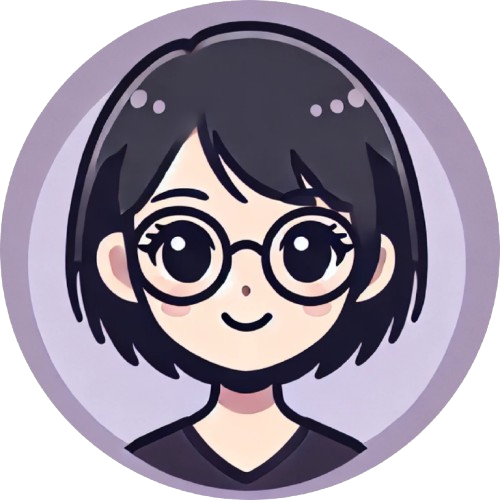
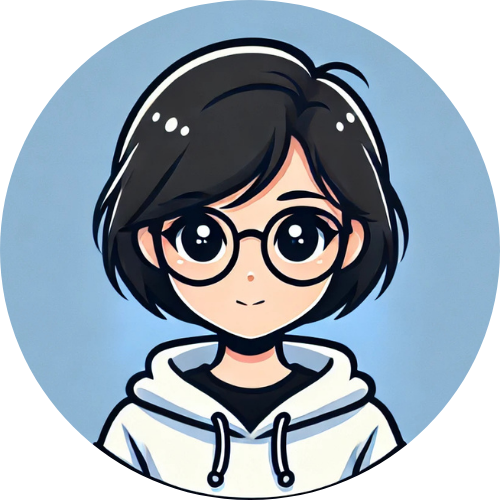
change color

diff --git a/src/style.css b/src/style.css
@@ -1,17 +1,17 @@
 html {
   --section-background-color: linear-gradient(
     to bottom left,
-    rgba(17, 16, 16, 0.582),
-    rgba(12, 8, 24, 0.904)
+    rgba(21, 27, 75, 0.678),
+    rgba(13, 22, 70, 0.863)
   );
 
   --image-gradient: linear-gradient(
     to bottom left,
-    rgba(17, 16, 16, 0.678),
-    rgba(12, 10, 22, 0.863)
+    rgba(15, 20, 56, 0.678),
+    rgba(11, 17, 53, 0.863)
   );
 
-  --imp-text-color: #c770f0;
+  --imp-text-color: #6aa9fc;
 }
 
 .purple {
@@ -32,7 +32,7 @@ button:focus {
   width: 100%;
   height: 100%;
   z-index: 999999;
-  background-color: #0c0513;
+  background-color: #151f53;
   background-image: url(./Assets/pre.svg);
   background-repeat: no-repeat;
   background-position: center;
@@ -57,18 +57,18 @@ button:focus {
 
 /* Track */
 ::-webkit-scrollbar-track {
-  background: #2d1950;
+  background: #0e1d63;
 }
 
 /* Handle */
 ::-webkit-scrollbar-thumb {
-  background: rgba(178, 121, 216, 0.959);
+  background: rgba(51, 110, 197, 0.959);
   border-radius: 12px;
 }
 
 /* Handle on hover */
 ::-webkit-scrollbar-thumb:hover {
-  background: rgba(222, 130, 235, 0.911);
+  background: rgba(130, 163, 235, 0.911);
   border-radius: 12px;
 }
 
@@ -76,9 +76,9 @@ button:focus {
 /* Navbar Section  */
 /* --------- */
 .sticky {
-  background-color: #1b1a2ea9 !important;
+  background-color: #1a212ea9 !important;
   transition: all 0.3s ease-out 0s !important;
-  box-shadow: 0px 10px 10px 0px rgba(9, 5, 29, 0.171) !important;
+  box-shadow: 0px 10px 10px 0px rgba(5, 11, 29, 0.171) !important;
   backdrop-filter: blur(15px) !important;
 }
 
@@ -97,7 +97,7 @@ button:focus {
 
 .navbar-toggler span {
   display: block !important;
-  background-color: #be50f4 !important;
+  background-color: #2e56db !important;
   height: 4px !important;
   width: 27px !important;
   margin-top: 5px !important;
@@ -144,7 +144,7 @@ button:focus {
   .navbar {
     padding: 1rem 2rem !important;
     font-size: 1.4rem !important;
-    background-color: #181a27 !important;
+    background-color: #181e27 !important;
   }
   .navbar-nav .nav-item a::after {
     display: none !important;
@@ -194,7 +194,7 @@ button:focus {
   height: 5px;
   width: 0;
   border-radius: 16px;
-  background: #c95bf5;
+  background: #5b8cf5;
   bottom: 1px;
   left: 0;
   z-index: -1;
@@ -257,7 +257,7 @@ button:focus {
 .home-section {
   position: relative;
   z-index: -1;
-  background-image: var(--image-gradient), url(./Assets/home-bg.jpg);
+  background-image: var(--image-gradient), url(./Assets/home-bg.png);
   background-position: top center;
   background-repeat: no-repeat;
   padding-bottom: 30px !important;
@@ -281,17 +281,17 @@ button:focus {
 }
 
 .main-name {
-  color: #cd5ff8;
+  color: #65a7ff;
 }
 
 .Typewriter__wrapper {
   font-size: 2.2em !important;
-  color: #be6adf !important;
+  color: #68a3f3 !important;
   font-weight: 600 !important;
 }
 .Typewriter__cursor {
   font-size: 2.4em !important;
-  color: #b562d6 !important;
+  color: #68a3f3 !important;
 }
 
 @media (max-width: 767px) {
@@ -371,7 +371,7 @@ button:focus {
   width: 100%;
   height: 100%;
   border-radius: 50%;
-  background: #68187a;
+  background: #18227a;
   transition: 0.5s;
   transform: scale(0.9);
   z-index: -1;
@@ -379,13 +379,13 @@ button:focus {
 
 .home-social-icons:hover::before {
   transform: scale(1.1);
-  box-shadow: 0 0 15px #801f95;
+  box-shadow: 0 0 15px #3378d3;
 }
 
 .home-social-icons:hover {
-  color: #87209e;
-  box-shadow: 0 0 5px #87209e;
-  text-shadow: 0 0 2px #87209e;
+  color: #2d70c7;
+  box-shadow: 0 0 5px #2d70c7;
+  text-shadow: 0 0 2px #2d70c7;
 }
 
 .social-icons {
@@ -395,14 +395,14 @@ button:focus {
 }
 
 .icon-colour {
-  color: #700c86 !important;
+  color: #357ad5 !important;
 }
 
 /* --------- */
 /* Footer */
 /* --------- */
 .footer {
-  background-color: rgb(10, 4, 22);
+  background-color: rgb(2, 42, 94);
   bottom: 0 !important;
   padding-top: 10px !important;
   padding-bottom: 8px !important ;
@@ -439,7 +439,7 @@ button:focus {
 }
 
 .blockquote-footer {
-  color: #a588c0 !important;
+  color: #7ed8ff !important;
 }
 /* --------- */
 /* Projects */
@@ -460,7 +460,7 @@ button:focus {
 }
 
 .project-card-view {
-  box-shadow: 0 4px 5px 3px rgba(119, 53, 136, 0.459) !important;
+  box-shadow: 0 4px 5px 3px rgba(67, 115, 179, 0.459) !important;
   color: white !important;
   background-color: transparent !important;
   opacity: 0.9 !important;
@@ -470,7 +470,7 @@ button:focus {
 .project-card-view:hover {
   transform: scale(1.02) !important;
   overflow: hidden !important;
-  box-shadow: 0 4px 4px 5px rgba(129, 72, 144, 0.561) !important;
+  box-shadow: 0 4px 4px 5px rgba(98, 154, 238, 0.561) !important;
 }
 
 .blog-card {
@@ -483,7 +483,7 @@ button:focus {
 
 .blog-card-view {
   background-color: transparent !important;
-  box-shadow: 0 3px 3px 2px rgba(145, 77, 161, 0.459) !important;
+  box-shadow: 0 3px 3px 2px rgba(3, 37, 99, 0.459) !important;
   color: white !important;
   transition: all 0.5s ease 0s !important;
   height: 100% !important;
@@ -501,7 +501,7 @@ button:focus {
 .blog-card-view:hover {
   transform: scale(1.02) !important;
   overflow: hidden !important;
-  box-shadow: 0 3px 3px 5px rgba(155, 88, 173, 0.65) !important;
+  box-shadow: 0 3px 3px 5px rgba(6, 34, 77, 0.65) !important;
 }
 
 .card-img-top {
@@ -518,14 +518,14 @@ button:focus {
 
 .btn-primary {
   color: #fff !important;
-  background-color: #623686 !important;
-  border-color: #623686 !important;
+  background-color: #448bee !important;
+  border-color: #448bee!important;
 }
 
 .btn-primary:hover {
   color: #fff !important;
-  background-color: #6d20c5d7 !important;
-  border-color: #6d20c5d7 !important;
+  background-color: #1e9ad0  !important;
+  border-color: #1e9ad0  !important;
 }
 .btn:focus {
   outline: none !important;
@@ -555,12 +555,12 @@ button:focus {
   margin: 15px !important;
   padding: 10px !important;
   opacity: 0.93 !important;
-  border: 1.7px solid rgba(200, 137, 230, 0.637) !important;
+  border: 1.7px solid rgba(61, 156, 245, 0.637) !important;
   vertical-align: middle !important;
   text-align: center !important;
   border-radius: 5px !important;
   display: table !important;
-  box-shadow: 4px 5px 4px 3px rgba(89, 4, 168, 0.137) !important;
+  box-shadow: 4px 5px 4px 3px rgba(4, 89, 168, 0.137) !important;
   overflow: hidden !important;
   transition: all 0.4s ease 0s !important;
 }
@@ -574,7 +574,7 @@ button:focus {
 .tech-icons:hover {
   transform: scale(1.05) !important;
   overflow: hidden !important;
-  border: 2.2px solid rgba(197, 115, 230, 0.883) !important;
+  border: 2.2px solid rgba(76, 163, 235, 0.883) !important;
 }
 .tech-icon-images {
   padding: 20px !important;
@@ -601,7 +601,7 @@ button:focus {
 /* --------- */
 /* Resume */
 /* --------- */
-
+  
 .resume-section {
   position: relative !important;
   padding-top: 110px !important;
@@ -645,14 +645,14 @@ button:focus {
 .resume .resume-item {
   padding: 0 0 10px 25px;
   margin-top: -2px;
-  border-left: 2px solid #8a49a8;
+  border-left: 2px solid #6ca9fc;
   position: relative;
 }
 
 .resume .resume-item .resume-title {
   line-height: 18px;
   font-size: 0.9em;
-  background: #5234795d;
+  background: #426aa1;
   padding: 8px 15px;
   display: inline-block;
   font-weight: 600;
@@ -682,7 +682,7 @@ button:focus {
   left: -9px;
   top: 0;
   background: #fff;
-  border: 2px solid #8a49a8;
+  border: 2px solid #426aa1;
 }
 
 .like-item {
@@ -692,8 +692,8 @@ button:focus {
 }
 
 .like-btn {
-  background-color: #934cce5e !important;
-  border-color: #934cce5e !important;
+  background-color: #4a83d0 !important;
+  border-color: #4a83d0 !important;
   padding: 0.25rem 0.98rem !important;
   border-radius: 5px !important;
   line-height: 1.4 !important;
@@ -702,8 +702,8 @@ button:focus {
 
 .like-btn:hover {
   transform: translateY(-2px) !important;
-  background-color: #a24dd386 !important;
-  border-color: #a24dd386 !important;
+  background-color: #6ca9fc !important;
+  border-color: #6ca9fc !important;
 }
 
 .animate-like {
@@ -727,7 +727,7 @@ button:focus {
 
 .fork-btn-inner {
   line-height: 1.4em !important;
-  background-color: #934cce5e !important;
+  background-color: #4a83d0 !important;
   padding: 0.25rem 1.1rem !important;
   vertical-align: middle !important;
   text-align: center !important;
@@ -735,8 +735,8 @@ button:focus {
 
 .fork-btn-inner:hover {
   transform: translateY(-2px) !important;
-  background-color: #a24dd386 !important;
-  border-color: #a24dd386 !important;
+  background-color: #68a3f3 !important;
+  border-color: #68a3f3 !important;
 }
 .fork-btn-inner::after {
   display: none !important;

diff --git a/src/components/About/AboutCard.js b/src/components/About/AboutCard.js
@@ -26,9 +26,12 @@ function AboutCard() {
             <li className="about-activity">
               <ImPointRight /> Enjoying my favorite songs 
             </li>
+            <li className="about-activity">
+              <ImPointRight /> Doing some relaxing games
+            </li>
           </ul>
 
-          <p style={{ color: "rgb(155 126 172)" }}>
+          <p style={{ color: "rgb(111, 197, 247)" }}>
             "Experience is the name everyone gives to their mistakes"{" "}
           </p>
           <footer className="blockquote-footer">Oscar Wilde</footer>

diff --git a/src/index.css b/src/index.css
@@ -4,5 +4,5 @@ body {
   font-family: "Raleway", serif !important;
   -webkit-font-smoothing: antialiased;
   -moz-osx-font-smoothing: grayscale;
-  background-image: linear-gradient(to left, rgb(27 20 41), rgb(20 15 35));
+  background-image: linear-gradient(to left, rgb(20, 30, 58), rgb(19, 35, 82));
 }

diff --git a/src/components/Home/Home.js b/src/components/Home/Home.js
@@ -1,6 +1,6 @@
 import React from "react";
 import { Container, Row, Col } from "react-bootstrap";
-import homeLogo from "../../Assets/home-main.svg";
+import homeLogo from "../../Assets/home-main.png";
 import Particle from "../Particle";
 import Home2 from "./Home2";
 import Type from "./Type";

diff --git a/src/components/About/Github.js b/src/components/About/Github.js
@@ -12,7 +12,7 @@ function Github() {
         username="nabilahintaka"
         blockSize={15}
         blockMargin={5}
-        color="#c084f5"
+        color="#6aa9fc"
         fontSize={16}
       />
     </Row>

diff --git a/README.md b/README.md
@@ -1,1 +1,1 @@
-# porto1
+# Portofolio2
